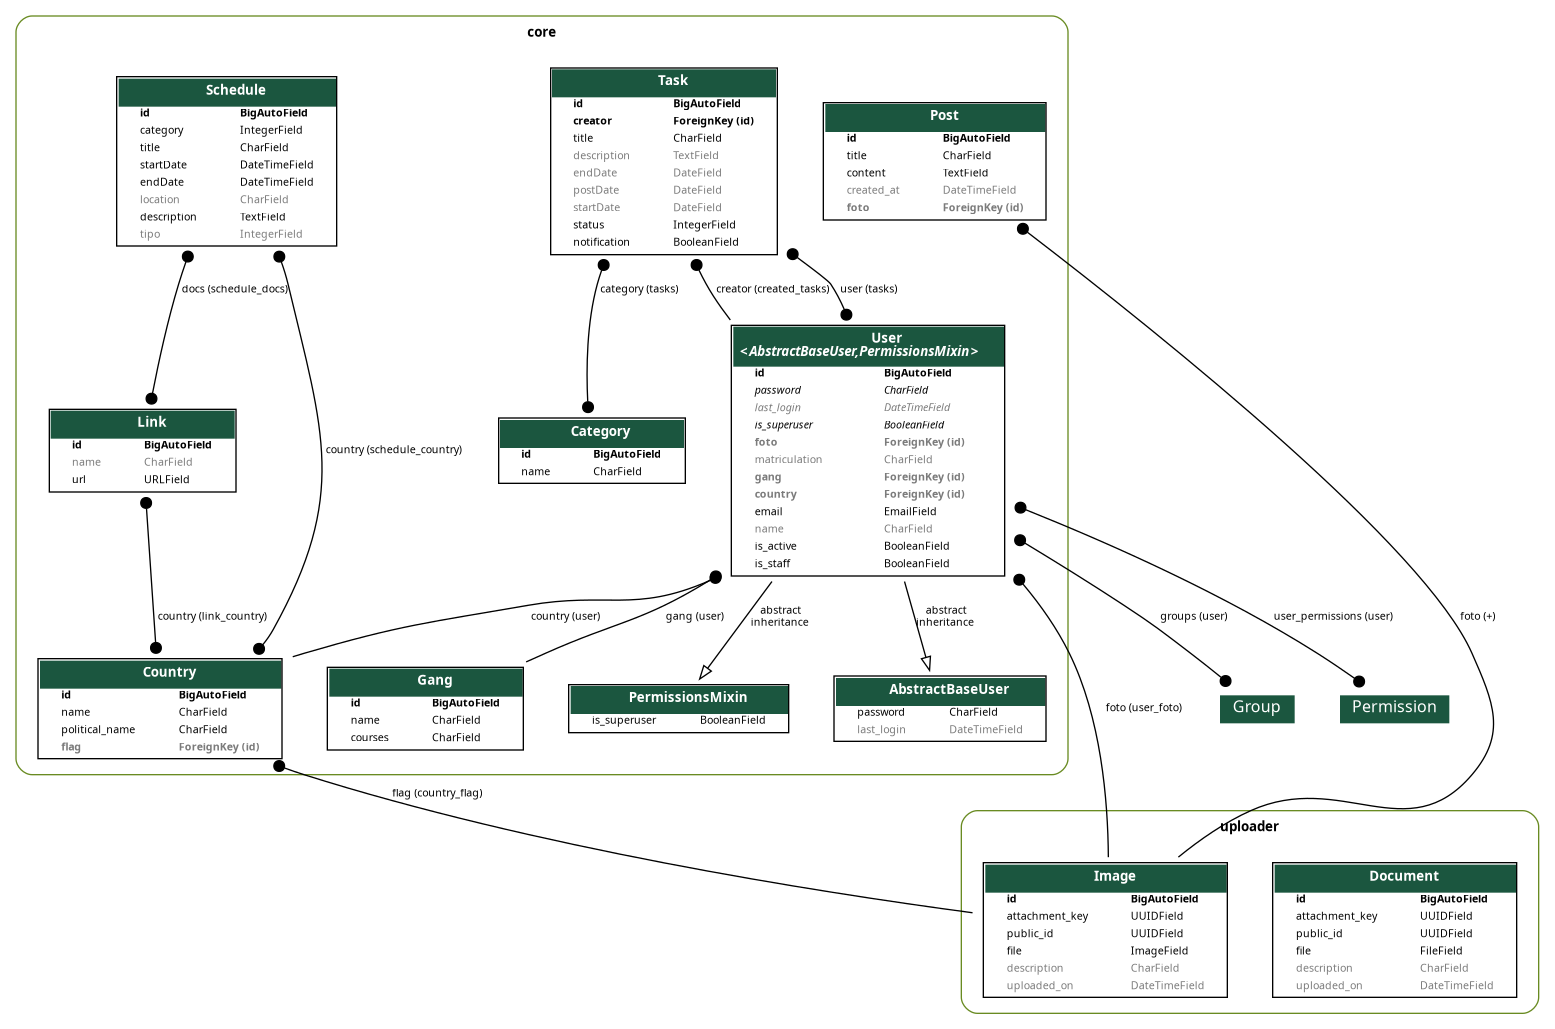
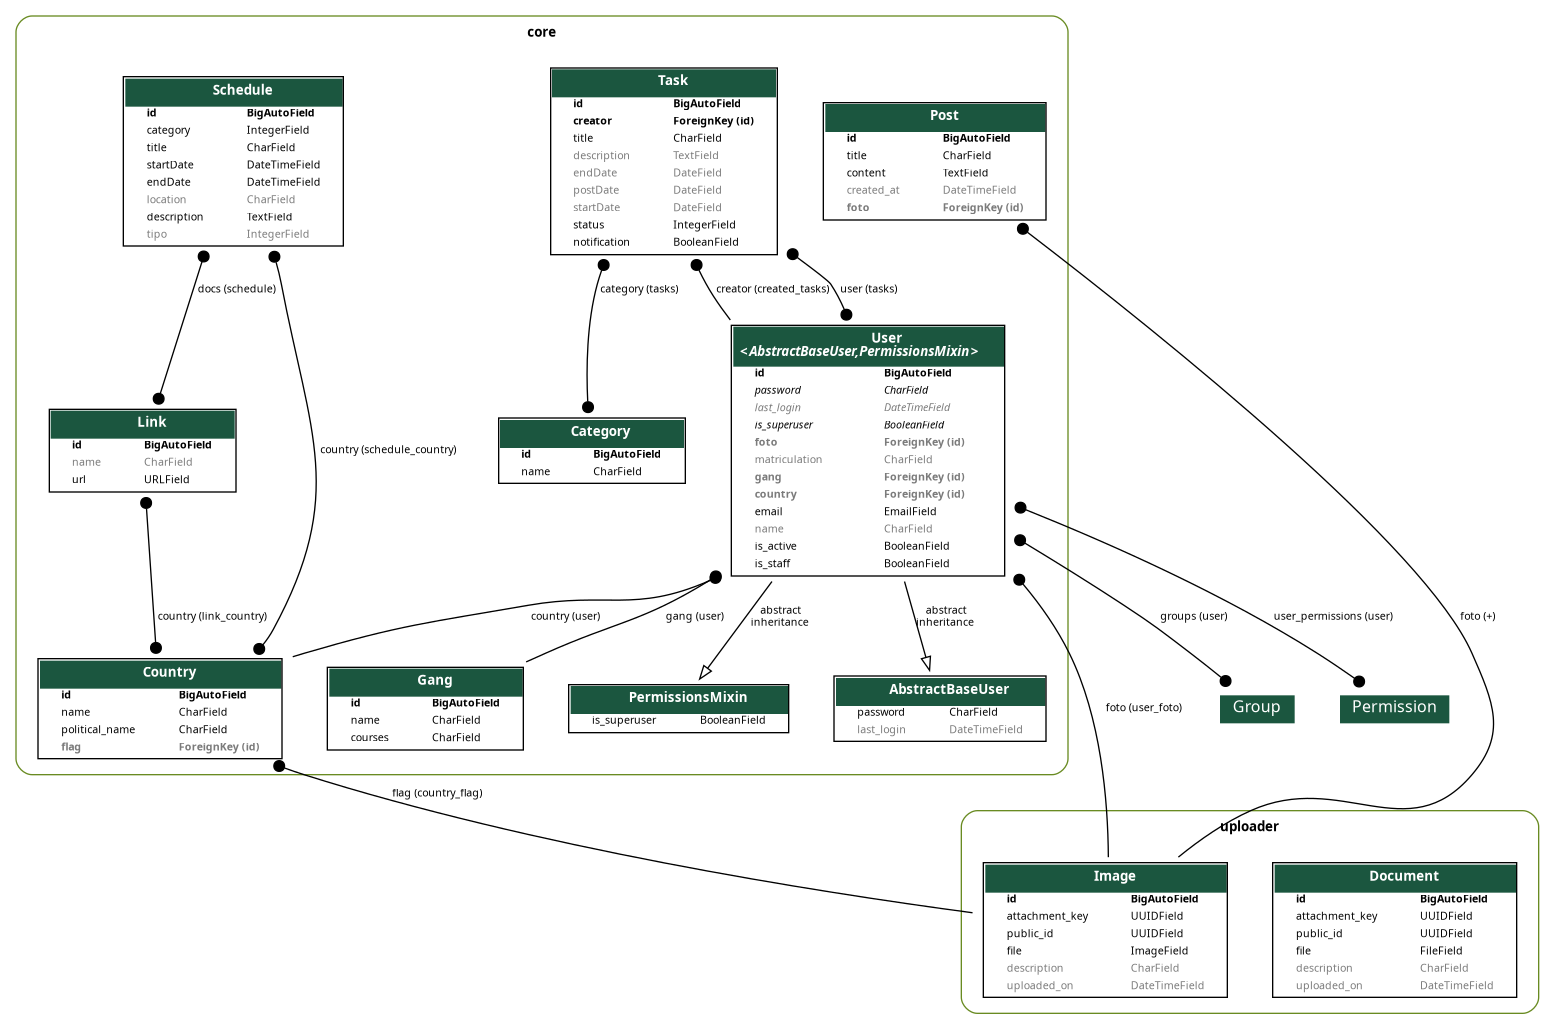
FIX: correção de link

diff --git a/core/serializers/link.py b/core/serializers/link.py
@@ -1,9 +1,25 @@
+from rest_framework import serializers
 from rest_framework.serializers import ModelSerializer
 
 from core.models import Link
 
 
 class LinkSerializer(ModelSerializer):
+
+    categories = serializers.SerializerMethodField()
+
     class Meta:
         model = Link
-        fields = '__all__'
+        fields = [
+            'id',
+            'name',
+            'url',
+            'categories',
+        ]
+
+    def get_categories(self, obj):
+        return list(
+            obj.schedules
+                .values_list('category', flat=True)
+                .distinct()
+        )

diff --git a/core/migrations/0024_alter_schedule_docs.py b/core/migrations/0024_alter_schedule_docs.py
@@ -1,0 +1,18 @@
+# Generated by Django 5.2.12 on 2026-09-25 15:52
+
+from django.db import migrations, models
+
+
+class Migration(migrations.Migration):
+
+    dependencies = [
+        ('core', '0023_schedule_tipo'),
+    ]
+
+    operations = [
+        migrations.AlterField(
+            model_name='schedule',
+            name='docs',
+            field=models.ManyToManyField(blank=True, related_name='schedule', to='core.link'),
+        ),
+    ]

diff --git a/core/models/schedule.py b/core/models/schedule.py
@@ -29,7 +29,6 @@ class Schedule(models.Model):
 
     tipo = models.IntegerField(choices=TIPO.choices, blank=True, null=True)
 
-
     country = models.ManyToManyField(
         Country,
         related_name='schedule_country',
@@ -37,7 +36,7 @@ class Schedule(models.Model):
 
     docs = models.ManyToManyField(
         Link,
-        related_name='schedule_docs',
+        related_name='schedule',
         blank=True,
     )
 
